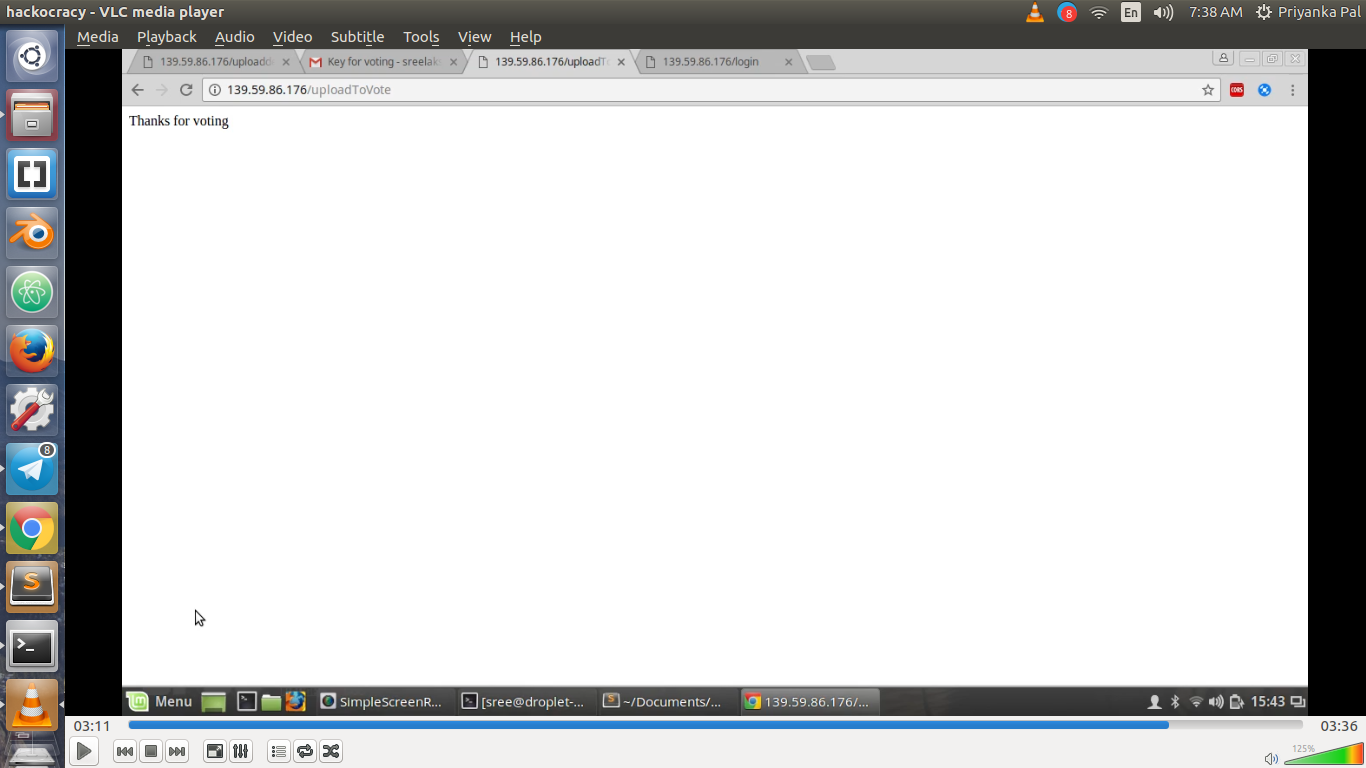
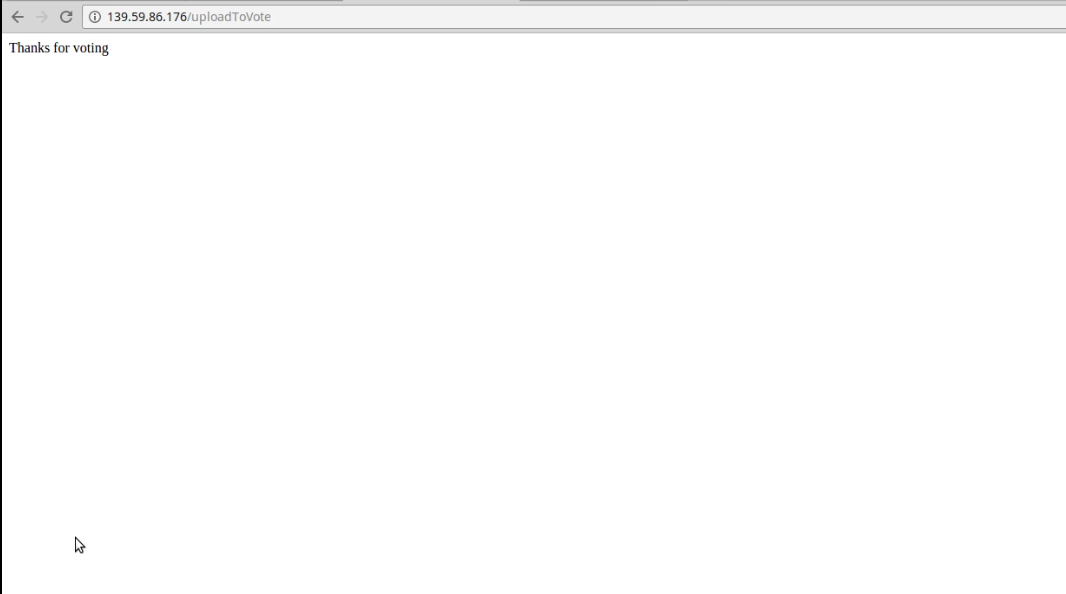
Modify readme and upload screenshots

Changed region(s): [[0.0, 0.0, 1.0, 1.0], [0.1238, 0.7879, 0.1548, 0.8182]]

diff --git a/README.md b/README.md
@@ -42,8 +42,43 @@ on localhost : 3000. To view it go to your browser and type in http://localhost 
 
 
 ## Features and the workflow of the application
+
+### User side
+
 * After your details have been recorded in aadhar database with our other application visit the online voting system site.
-![Alt text](./screenshots/h2.png?raw=true "Optional Title")
+![Home page](./screenshots/h1.png?raw=true "Optional Title")
+
+* Register as a voter by clicking on register link and then filling in necessary details along with fingerprint.
+![Registration](./screenshots/h2.png?raw=true "Optional Title")
+
+* On submitting registration details it is verified with the aadhar api.If the details are correct then you get a page showing that a one time link has been sent to your mail.
+![One time link](./screenshots/h3.png?raw=true "Optional Title")
+
+* On going to your mail and clicking on the one time link you are led to an instructions page.
+![One time link in mail](./screenshots/h4.png?raw=true "Optional Title")
+![Instructions](./screenshots/h5.png?raw=true "Optional Title")
+
+* After registration and until day of voting you will receive three keys in your mail inbox.
+![Keys](./screenshots/h8.png?raw=true "Optional Title")
+
+* On the day of voting finally you will have to login via the one time link sent to your email as soon as you try to login using your email id and then upload all the 3 keys received along with your finger print and the party you are voting for.
+![Vote](./screenshots/h14.png?raw=true "Optional Title")
+
+* If all the keys are correct along with the finger print which is again verified with aadhar api, then your vote is taken into account or discarded .
+![thanks for voting](./screenshots/h15.png?raw=true "Optional Title") 
+
+
+### Admin side
+
+* Login as admin after visiting site url/admin
+![Admin login](./screenshots/h6.png?raw=true "Optional Title")
+
+* Send keys to the mail ids of all the registered voters at random times until the voting day.Send the third key only on the voting day so that no one can vote before the voting day.
+![Send keys](./screenshots/h7.png?raw=true "Optional Title")
+
+* After voting is over click on the count button to get a count of votes each party has received in their favour.
+![Results](./screenshots/h11.png?raw=true "Optional Title")
+
 
 ## Built With
 * Html
